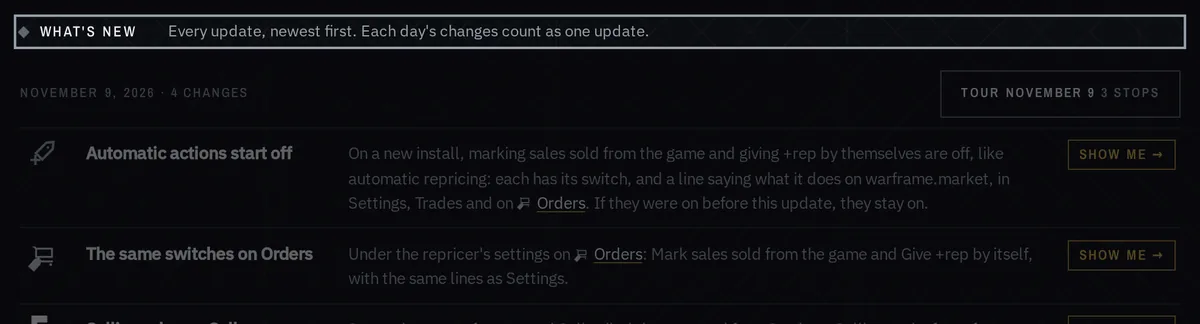
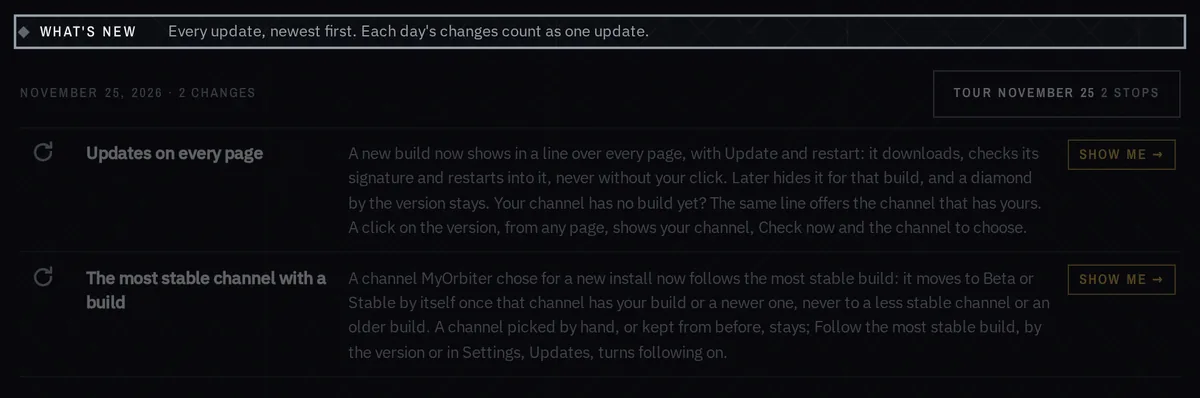
What's New: the update's Show me lights the version, so the day has its tour
Both of this update's changes opened Settings, Updates, which a tour
leaves out, so the newest day had no Tour button and the help's What's
New picture lost its second mark. The version at the top of the sidebar
is now a sidebar spot (data-card="version", as the bell's), and both
changes show it: its panel has the channel, Check now and Follow. The
help's two What's New pictures are retaken with this update on top.

diff --git a/src/lib/whatsNew.ts b/src/lib/whatsNew.ts
@@ -36,8 +36,8 @@ export const NEWS: NewsEntry[] = [
     id: 24,
     date: "2026-11-25",
     items: [
-      { title: "Updates on every page", icon: { line: "refresh" }, text: "A new build now shows in a line over every page, with Update and restart: it downloads, checks its signature and restarts into it, never without your click. Later hides it for that build, and a diamond by the version stays. Your channel has no build yet? The same line offers the channel that has yours. A click on the version, from any page, shows your channel, Check now and the channel to choose.", open: "settings#updates" },
-      { title: "The most stable channel with a build", icon: { line: "refresh" }, text: "A channel MyOrbiter chose for a new install now follows the most stable build: it moves to Beta or Stable by itself once that channel has your build or a newer one, never to a less stable channel or an older build. A channel picked by hand, or kept from before, stays; Follow the most stable build, by the version or in Settings, Updates, turns following on.", open: "settings#updates" },
+      { title: "Updates on every page", icon: { line: "refresh" }, text: "A new build now shows in a line over every page, with Update and restart: it downloads, checks its signature and restarts into it, never without your click. Later hides it for that build, and a diamond by the version stays. Your channel has no build yet? The same line offers the channel that has yours. A click on the version, from any page, shows your channel, Check now and the channel to choose.", open: "home#version" },
+      { title: "The most stable channel with a build", icon: { line: "refresh" }, text: "A channel MyOrbiter chose for a new install now follows the most stable build: it moves to Beta or Stable by itself once that channel has your build or a newer one, never to a less stable channel or an older build. A channel picked by hand, or kept from before, stays; Follow the most stable build, by the version or in Settings, Updates, turns following on.", open: "home#version" },
     ],
   },
   {

diff --git a/src/App.svelte b/src/App.svelte
@@ -3076,7 +3076,7 @@
       <!-- The wordmark, the craft as its O; folded, the craft alone. Under it the running build (the
            version the updater compares) and its channel, small and muted, a button that opens the
            version's panel (UpdatesChip, UpdatesPanel), and your platinum with its picture. -->
-      {#if compact}<Wordmark glyph height={26} /><UpdatesChip compact settings={() => settings.updates} />{#if statusNow.plat && settings.game.platinum != null}<span class="brand-plat" title={`${statusNow.plat.value} platinum, as of the last inventory read`}><GameIcon name="platinum" size={16} even /><b>{statusNow.plat.value}</b></span>{/if}{:else}<span class="brand-text"><Wordmark height={30} /><span class="brand-row"><UpdatesChip compact={false} settings={() => settings.updates} />{#if statusNow.plat && settings.game.platinum != null}<span class="brand-plat" title={statusNow.plat.title}><b>{statusNow.plat.value}</b><GameIcon name="platinum" size={16} even /></span>{/if}</span></span>{/if}
+      {#if compact}<Wordmark glyph height={26} /><UpdatesChip compact data-card="version" settings={() => settings.updates} />{#if statusNow.plat && settings.game.platinum != null}<span class="brand-plat" title={`${statusNow.plat.value} platinum, as of the last inventory read`}><GameIcon name="platinum" size={16} even /><b>{statusNow.plat.value}</b></span>{/if}{:else}<span class="brand-text"><Wordmark height={30} /><span class="brand-row"><UpdatesChip compact={false} data-card="version" settings={() => settings.updates} />{#if statusNow.plat && settings.game.platinum != null}<span class="brand-plat" title={statusNow.plat.title}><b>{statusNow.plat.value}</b><GameIcon name="platinum" size={16} even /></span>{/if}</span></span>{/if}
     </div>
     <!-- The fold arrow: one spot on screen in both widths (inside the folded bar's width, at the top),
          the same size and look, so two clicks without moving the pointer fold and unfold. -->

diff --git a/src/lib/UpdatesChip.svelte b/src/lib/UpdatesChip.svelte
@@ -7,14 +7,15 @@
   import { CHANNEL_LABEL, buildNumber, type UpdateSettings } from "./core/updates";
   import { updates, updatesPanel } from "./updates.svelte";
 
-  let { compact, settings }: { compact: boolean; settings: () => UpdateSettings } = $props();
+  // `data-card`: the sidebar spot What's New's Show me lights (App.svelte's `goTo`).
+  let { compact, settings, "data-card": card }: { compact: boolean; settings: () => UpdateSettings; "data-card"?: string } = $props();
   const info = $derived(updates.info);
   const ch = $derived(info && buildNumber(info.version) != null && settings().picked ? CHANNEL_LABEL[settings().channel] : null);
   const dot = $derived(updates.waiting);
 </script>
 
 {#if info}
-  <button type="button" id="updates-chip" class="chip" class:compact class:on={updatesPanel.open} data-field="updates.chip" aria-haspopup="dialog" aria-expanded={updatesPanel.open} aria-controls={updatesPanel.open ? "updates-panel" : undefined} title={`MyOrbiter ${info.version}${ch ? ` on ${ch}` : ""}${dot ? ": an update is waiting" : ""}. Your channel, Check now and what is on offer`} onclick={() => (updatesPanel.open = !updatesPanel.open)}>
+  <button type="button" id="updates-chip" data-card={card} class="chip" class:compact class:on={updatesPanel.open} data-field="updates.chip" aria-haspopup="dialog" aria-expanded={updatesPanel.open} aria-controls={updatesPanel.open ? "updates-panel" : undefined} title={`MyOrbiter ${info.version}${ch ? ` on ${ch}` : ""}${dot ? ": an update is waiting" : ""}. Your channel, Check now and what is on offer`} onclick={() => (updatesPanel.open = !updatesPanel.open)}>
     <span class="v">{info.version}</span>{#if dot}<i class="dot" aria-label="An update is waiting"></i>{/if}
   </button>
 {/if}
